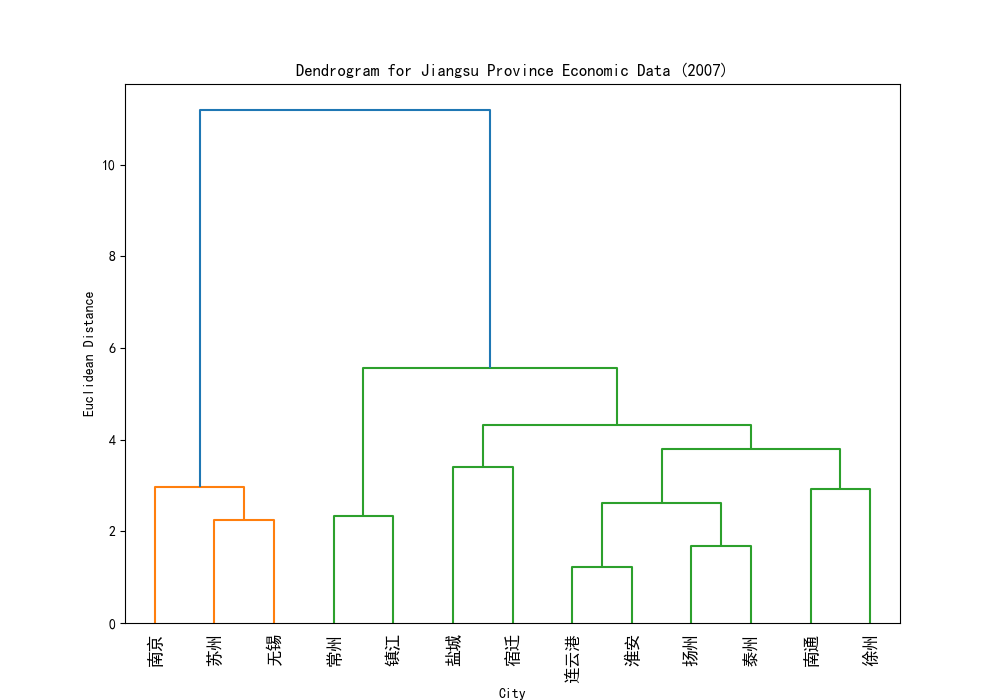
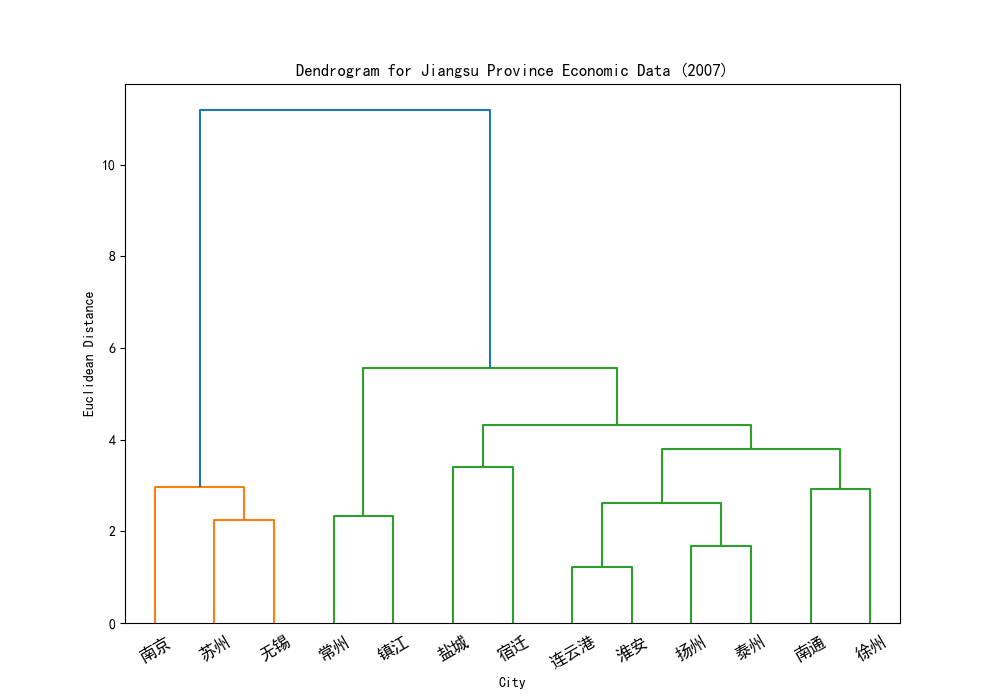
调整leaf_rotation
调整leaf_rotation为30°使得更适合中国宝宝的阅读习惯

diff --git a/国民经济分布/project/GPT三种距离下的谱系聚类图.py b/国民经济分布/project/GPT三种距离下的谱系聚类图.py
@@ -174,7 +174,7 @@ canberra_dist = pdist(df_scaled, metric="canberra")
 def plot_dendrogram(dist_matrix, method, title):
     Z = linkage(dist_matrix, method="ward")
     plt.figure(figsize=(10, 8))
-    dendrogram(Z, labels=df.index.tolist(), leaf_rotation=90)
+    dendrogram(Z, labels=df.index.tolist(), leaf_rotation=30)
     plt.title(title)
     plt.xlabel("City")
     plt.ylabel("Distance")

diff --git a/国民经济分布/project/GPT欧拉.py b/国民经济分布/project/GPT欧拉.py
@@ -166,7 +166,7 @@ Z = linkage(df_standardized, method="ward")
 
 # 绘制谱系聚类图
 plt.figure(figsize=(10, 7))
-dendrogram(Z, labels=cities.values, leaf_rotation=90)
+dendrogram(Z, labels=cities.values, leaf_rotation=30)
 plt.title("Dendrogram for Jiangsu Province Economic Data (2007)")
 plt.xlabel("City")
 plt.ylabel("Euclidean Distance")
